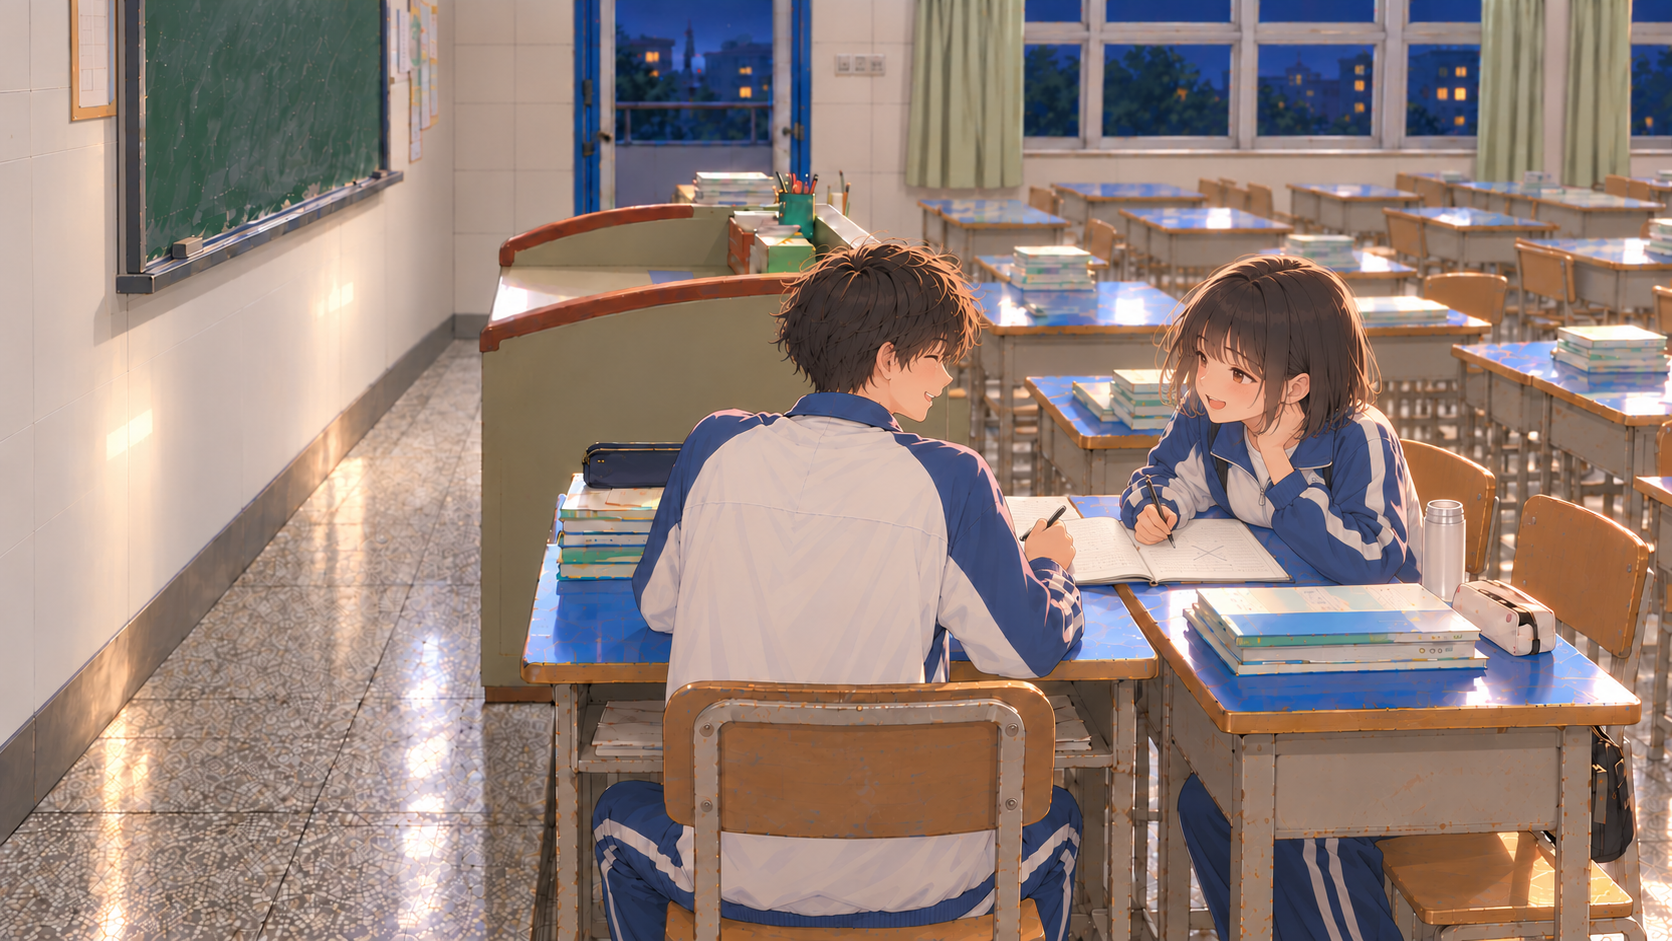
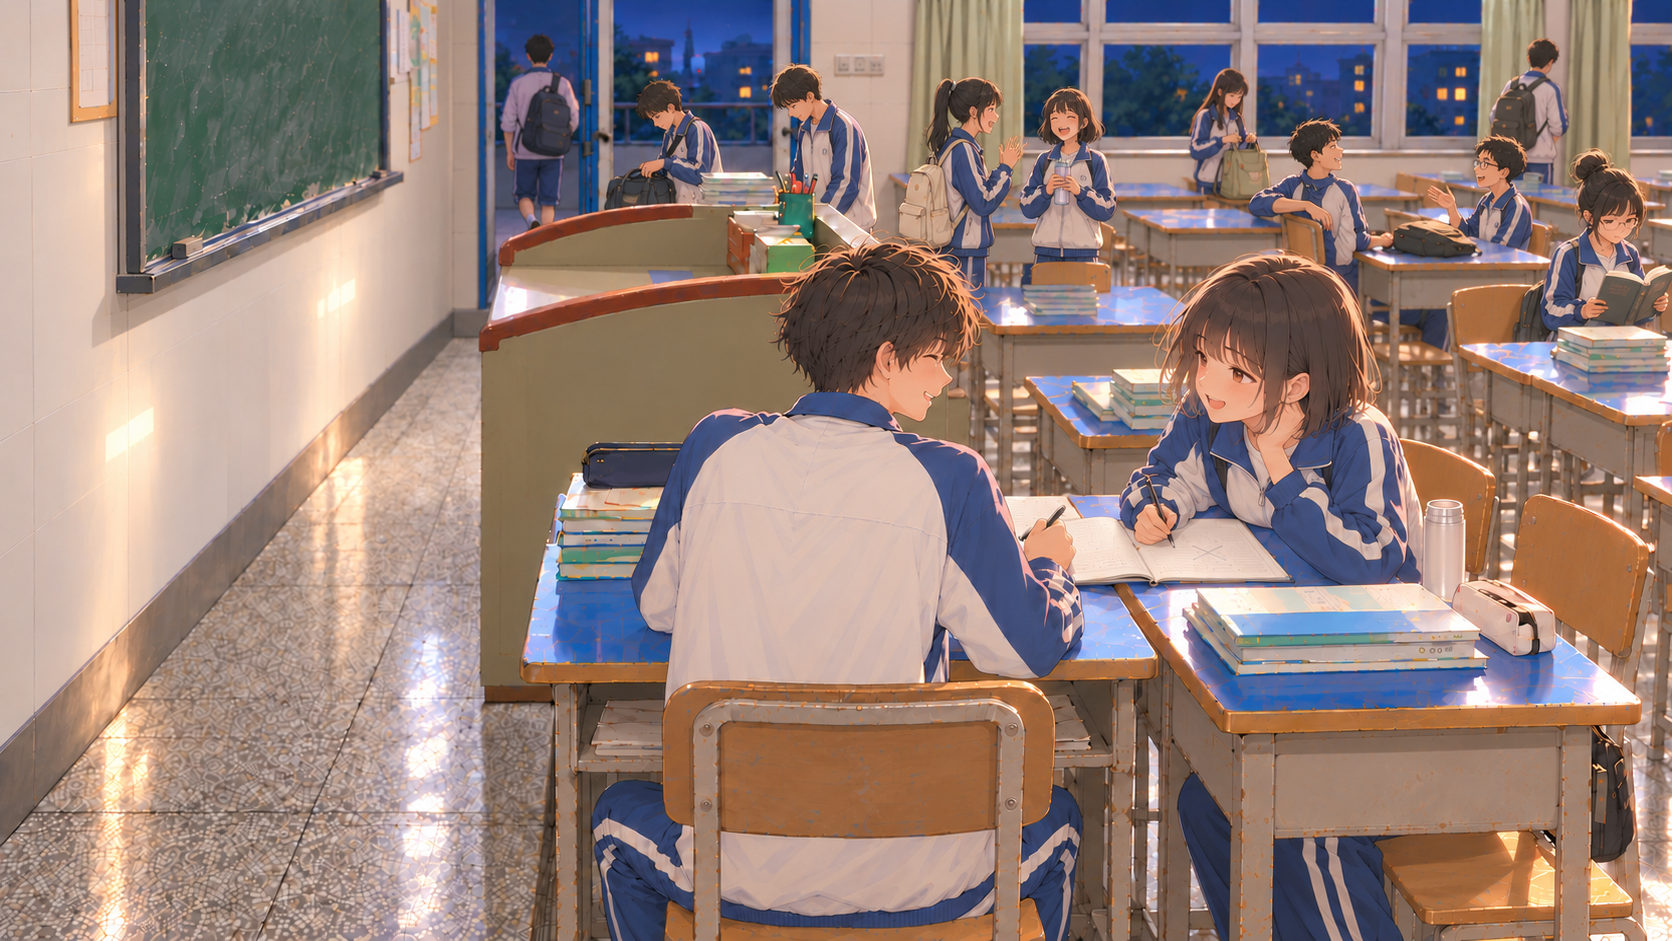
Continue directly between chapters and replace fifth-act artwork

diff --git a/UnityProject/Assets/_Game/Scripts/StoryScreen.cs b/UnityProject/Assets/_Game/Scripts/StoryScreen.cs
@@ -182,7 +182,7 @@ namespace LoveNarrativeGame.Prototype
         }
         private void Begin()
         { BeginChapter(0); }
-        private void BeginChapter(int chapter, int line = 0)
+        private void BeginChapter(int chapter, int line = 0, bool flowing = false)
         {
             if (saved == null) LoadReading();
             if (!saved.Enter(chapter, line)) return;
@@ -198,7 +198,7 @@ namespace LoveNarrativeGame.Prototype
             if (chapterMenu != null) chapterMenu.gameObject.SetActive(false);
             selection.gameObject.SetActive(false); playback.gameObject.SetActive(true); ending.gameObject.SetActive(false); pause.gameObject.SetActive(false);
             if (EventSystem.current != null) EventSystem.current.SetSelectedGameObject(null);
-            ShowBeat(true);
+            ShowBeat(!flowing);
             SaveReading();
         }
         private void LoadReading()
@@ -324,7 +324,8 @@ namespace LoveNarrativeGame.Prototype
         {
             speaker.text = string.IsNullOrEmpty(beat.speaker) ? "" : beat.speaker;
             body.text = beat.text; typing = 0; body.maxVisibleCharacters = 0;
-            nextLabel.text = progress.Index == progress.Count - 1 ? "本段结束 →" : "继续 →";
+            nextLabel.text = progress.Index == progress.Count - 1
+                ? (chapterIndex + 1 < books[bookIndex].chapters.Length ? "下一幕 →" : "本幕结束 →") : "继续 →";
         }
         private void Next()
         {
@@ -337,7 +338,9 @@ namespace LoveNarrativeGame.Prototype
             else
             {
                 saved.Finish(); SaveReading();
-                ShowChapters(saved.AllComplete ? "当前已制作章节已读完，后续剧情制作中" : books[bookIndex].chapters[chapterIndex].chapterTitle + " · 已完成，下一幕已解锁");
+                int nextChapter = chapterIndex + 1;
+                if (nextChapter < books[bookIndex].chapters.Length) BeginChapter(nextChapter, 0, true);
+                else ShowChapters("当前已制作章节已读完，后续剧情制作中");
             }
         }
         private void TogglePause() { if (!reading) return; paused = !paused; pause.gameObject.SetActive(paused); lastAdvanceFrame = Time.frameCount; }

diff --git a/UnityProject/Assets/_Game/Editor/StoryReadingChecks.cs b/UnityProject/Assets/_Game/Editor/StoryReadingChecks.cs
@@ -44,6 +44,15 @@ public static class StoryReadingChecks
         bool threw = false;
         try { new StoryReadingState(new[] { "a", "a" }, new[] { 1, 1 }); } catch (ArgumentException) { threw = true; }
         Require(threw, "duplicate chapter identity rejected");
+        var flow = new StoryReadingState(ids, counts);
+        for (int chapter = 0; chapter < ids.Length; chapter++)
+        {
+            Require(flow.Enter(chapter), "sequential playback entry");
+            flow.Bookmark(counts[chapter] - 1); Require(flow.Finish(), "sequential playback finish");
+            var restart = new StoryReadingState(ids, counts, flow.Capture());
+            Require(chapter == ids.Length - 1 ? restart.AllComplete : restart.Chapter == chapter + 1 && restart.Beat == 0, "chapter boundary resume");
+        }
+        Require(flow.Enter(0, 2) && flow.Finish() && flow.Enter(1, 0) && flow.IsComplete(2), "replay continues to adjacent chapter without losing completion");
     }
     private static void Require(bool ok, string message) { if (!ok) throw new Exception("Reading check failed: " + message); }
 }

diff --git a/docs/CHAPTER_READING.md b/docs/CHAPTER_READING.md
@@ -5,9 +5,9 @@
 ## 行为
 
 - 初次只有第一幕可以进入。锁定节点不显示剧情缩略图、不可点击进入；完成前一幕后依次开放。
-- 每幕最后一句完全显示后，再点一次继续，才标记完成并返回目录；仅打开章节或看到最后一句不会提前解锁。目录保留已完成标记和重看入口，并提示下一幕解锁。
+- 每幕最后一句完全显示后，再点一次继续，才标记完成并自动淡入相邻下一幕；仅打开章节或看到最后一句不会提前解锁。解锁与下一幕第一段书签同步保存。只在当前最后已制作章节结束时返回目录；读到一半仍可手动回目录。
 - 每次进入章节、推进到新段落和完成章节时保存。中途退出、返回主菜单、关闭程序后，选择同一故事的“继续阅读”可回到该幕该段开头；不记录打字动画的字符位置。
-- 重看旧章节不会收回已有解锁。读完重看章节后，“继续阅读”指向最前面的未完成章节。所有现有章节完成后仍可重看；未来在末尾追加章节，读取原存档会开放新一幕。
+- 重看旧章节不会收回已有解锁。重看某幕读完后也接相邻下一幕；不自动跳过已完成章节。返回目录时续读遵循保存的有效书签。所有现有章节完成后仍可重看；未来在末尾追加章节，读取原存档会开放新一幕。
 - 只保存到当前Windows账户的本机存储，没有云存档。旧版没有阅读记录，不能追认过去的通关，第一次使用从第一幕开始。不清理任何设置或用户存档，不提供一键全解锁。
 
 ## 实现与边界
@@ -20,12 +20,12 @@ StoryScreen从整篇串读改为一次读取一个章节，并创建手绘纸张
 
 ## 验证和作者测试
 
-独立C#编译通过（工具链既有CS1701提示）。纯状态边界检查通过，涵盖首次锁定、拒绝越级、未读完不解锁、书签恢复、顺序完成、重看不退回、全通后追加内容、异常完成记录、书签越界、未知版本、不同故事、单段章节和快照隔离。编辑器构建前另执行JSON往返检查，不写入作者的PlayerPrefs。本次未代做Play或独立游戏操作；构建结果见PROGRESS最新记录。
+独立C#编译通过（工具链既有CS1701提示）。纯状态边界检查通过，涵盖首次锁定、拒绝越级、未读完不解锁、书签恢复、顺序完成、重看不退回、全通后追加内容、异常完成记录、书签越界、未知版本、不同故事、单段章节和快照隔离。编辑器构建前另执行JSON往返检查，不写入作者的PlayerPrefs。连续衔接版本追加逐章完成及边界续读检查通过。本次未代做Play或独立游戏操作；构建结果见PROGRESS最新记录。
 
 1. 打开新版游戏 → 开始游戏 → 故事卡。应先看到横向五幕目录，初次只有第一幕可进入，第二至第五幕锁定。
 2. 进入第一幕，读几段后返回章节目录或直接退出游戏。重启后点“继续阅读”，应回到刚才那段。点锁定节点不应进入剧情。
-3. 完整读完第一幕，在最后一句再点继续。应回目录，第一幕显示已完成，第二幕解锁，第三幕仍锁定。“继续阅读”进入第二幕。
-4. 第二幕中途退出后重启检查续读；再完整重看第一幕，第二幕的解锁应保持。其他已完成章节也可重看，不需要从第一幕再读整篇。
+3. 完整读完第一幕，在最后一句再点继续。应直接淡入第二幕第一段，不出现目录。手动回目录后第一幕显示已完成，第二幕解锁，第三幕仍锁定；续读接第二幕当前段。
+4. 第二幕中途退出后重启检查续读；再完整重看第一幕，应直接衔接第二幕，已有解锁应保持。其他已完成章节也可重看，不需要从第一幕再读整篇。
 5. 逐幕完成至第五幕后，所有已完成节点可重看；末尾不出现未制作第六幕的可玩入口。核对缩略图、中文、按钮和全屏画面，音乐持续。
 
 学习点：解锁进度与阅读位置是两个状态；只进入章节不等于完成；稳定ID比数组下标更适合跨版本匹配。练习：读完一幕后重启观察状态，先不要删除存档。面试问题：为什么重看第一幕时不能把“已解锁最高章节”直接改成当前章节？

diff --git a/docs/PROGRESS.md b/docs/PROGRESS.md
@@ -2,6 +2,11 @@
 
 ## 更新 · 2026-11-02
 
+### 幕间连续播放与第五幕作者五图替换
+- 按作者修正取消每幕完成后强制返回目录：最后一句显示完成再继续，标记完成/解锁、保存，再淡入相邻下一幕第一段；末句按钮显示下一幕。保留初次顺序锁定、手动目录、重看与书签，最后已制作章节完成后才回目录。重看也接相邻下一幕，不跳过已完成章节去最远未完成处。
+- 从资产包/第五幕原样更新Invitation/StayAndExplain/ProblemNotebook/WritingAnswer/LunchAgreement五图。首图1536×1024，其余1672×941，沿用既有16:9取景和半透明对白。五组原图/归档/运行副本哈希一致，原.meta/GUID和27段文本、题面数学不变，先登记台账。新来源与哈希表见art/Story/Act5/MathHelp/AUTHOR_REPLACEMENT.md。
+- 独立C#编译通过（既有CS1701提示），扩展逐章完成、边界续读、重看接相邻章节的状态检查并实际通过。Unity实际导入/编译、JSON/状态检查STORY_READING_CHECK_PASS与Windows构建ILLUSTRATED_MENU_BUILD_PASS通过。当前仍五幕99段；未操作Play或独立游戏，实际淡入/快速点击和重启续读由作者验收。
+
 ### 横向章节目录、依序解锁与本机续读
 - 在整部故事卡后新增横向五幕节点，显示可进入/已完成/未解锁、缩略图和连接箭头；更多章支持水平拖动与左右按钮。首次只开放第一幕，完成当前幕最后一句并继续后解锁下一幕、返回目录；锁定节点没有进入按钮。保留五幕99段、原图及半透明对白。
 - StoryReadingState分开保存已完成稳定章节ID与当前书签；StoryScreen按单幕读取，每次进入/推进/完成写入按bookId隔离的PlayerPrefs JSON，并显式Save。退出重启从本幕本段开头续读，不保存字符动画。重看不收回解锁，读完重看回到未完成章节；未来追加一幕可沿用存档。切换故事清理内存状态，避免其他故事串档。旧版无阅读记录，首次从第一幕开始。

diff --git a/docs/FIFTH_ACT.md b/docs/FIFTH_ACT.md
@@ -1,5 +1,11 @@
 # 第五幕《这道题》
 
+## 作者新版图片与连续衔接 · 2026-11-02
+
+资产包/第五幕图一至图五已原样替换相应五个画面，原.meta/GUID、27段对白与数学不变。源图和归档、游戏副本哈希一致，来源和实际尺寸见art/Story/Act5/MathHelp/AUTHOR_REPLACEMENT.md，旧生成提示仅作历史。Unity实际导入/编译与Windows构建成功，未代做运行测试。
+
+第四幕最后一句完成后再继续，应直接淡入第五幕，不返回目录；第五幕使用新版五图。中途退出重启，“继续阅读”应接当前幕当前段。第五幕读完因第六幕未制作才回目录，不提前解锁虚构内容；既有完成记录不清除。下方旧图片来源及每幕返回目录描述为历史，以当前说明为准。
+
 2026-11-01。依据 MAIN_STORY_V0.3 MS-05，接入晚云求助、朋友邀约、凌赫留下讲题、她自行补出答案与约好明日午饭的线性演出。保留17句角色对白，舞台说明转为6段旁白，题面/解题笔记分成4段，共27段。五幕合计99段、23张图片，仍从《旁边的位置》整篇故事卡进入。
 
 沿用先完成演出再补互动的约定：本次没有数值输入框、提交按钮、答案分支或纸页拖动；问题与解法由正常阅读推进。没有把看到520解释为告白，也没有新增关系确认或肢体接触剧情。

diff --git a/README.md b/README.md
@@ -1,5 +1,7 @@
 # 原创 2D 叙事游戏（开发代号待定）
 
+**连续播放与第五幕新图已更新（2026-11-02）：** 幕末继续会自动解锁并淡入相邻下一幕，不再中途返回目录；续读保存和手动选章保留。第五幕使用作者资产包五张新图，Unity实际编译与Windows构建通过，[打开新版游戏](Builds/MenuDemo/MenuDemo.exe)。未代做游玩测试。以下为历史记录。
+
 **章节目录、解锁与续读已接入（2026-11-02）：** 进入故事卡后先显示横向五幕目录；首次只开放第一幕，读完解锁下一幕，已完成可重看。自动保存到本机，重启后可继续上次那一段。独立编译、状态检查及Unity构建成功，[打开新版游戏](Builds/MenuDemo/MenuDemo.exe)，按[章节验收步骤](docs/CHAPTER_READING.md)检查。旧版没有存档，首次从第一幕开始。以下为历史记录。
 
 **第三幕宽屏原图已更新（2026-11-02 17:41）：** 作者最新五张1672×941图片已原样接入，保留全屏画面、半透明对白框与原剧情。Unity实际导入及Windows构建成功，[打开新版游戏](Builds/MenuDemo/MenuDemo.exe)查看；未代做游玩测试。以下为历史记录。

diff --git a/art/Story/Act5/MathHelp/AUTHOR_REPLACEMENT.md b/art/Story/Act5/MathHelp/AUTHOR_REPLACEMENT.md
@@ -1,0 +1,11 @@
+# 第五幕作者新版图片 · 2026-11-02
+
+按作者要求，资产包/第五幕五图原样替换归档及游戏既有文件：邀约递本、留下讲题、题目笔记、写答、约饭微笑。来源先登记；不修改原图像素，不重生图，GUID和27段内容不变。题面和解法仍由Unity显示，数学数值不变。PROMPTS.md仅保留为旧版生成记录，不代表本版实际制作提示或工具。商业授权细节未提供，当前仅记录本地开发替换授权。
+
+| 来源文件 | 游戏图片 | 实际尺寸 | SHA256（原图/归档/运行副本一致） |
+| --- | --- | --- | --- |
+| 图一.png | Invitation | 1536×1024 | 390f7c8b7f092f15df2a8c06f31d3a40b3ac72146917808f0c9296e76c4a4796 |
+| 图二.png | StayAndExplain | 1672×941 | 0add6359b64682aa8f428616fe0f80ef0b896abf06dc4496fa202d395cfbfb8f |
+| 图三.png | ProblemNotebook | 1672×941 | 62a085583452fcf1461e722f5ba4f8ea45ed0fecd0f08ee719a1503e4bc9155b |
+| 图四.png | WritingAnswer | 1672×941 | 8296925df6c02113f3224cc15d711ede0ba4a8870a15c04c19fc36e5a8785f53 |
+| 图五.png | LunchAgreement | 1672×941 | dbcb3d6a664772c5e201d1804a58deeec744aee2ee8910484952585b56a2f55d |

diff --git a/docs/ROADMAP.md b/docs/ROADMAP.md
@@ -1,5 +1,7 @@
 # 首阶段执行计划
 
+> 2026-11-02：按作者修正为每幕解锁后直接衔接相邻下一幕，保留目录及本机续读；第五幕原样替换作者五张新图。独立编译、进度边界检查与Unity实际构建通过，作者检查第四幕→第五幕衔接和新版五图。
+
 > 2026-11-02：新增故事内横向章节目录、依序解锁、完成后返回目录和本机自动续读；独立编译、状态边界、编辑器JSON检查与Windows构建通过。旧版无阅读存档，首次从第一幕开始；作者按CHAPTER_READING.md验证真实退出/重启续读与界面。
 
 > 2026-11-02 17:41：第三幕作者宽屏原图已接入并构建成功，五图原始尺寸1672×941，原图/归档/运行副本一致。保持全屏及半透明对白、五幕99段；由作者检查实机观感。
